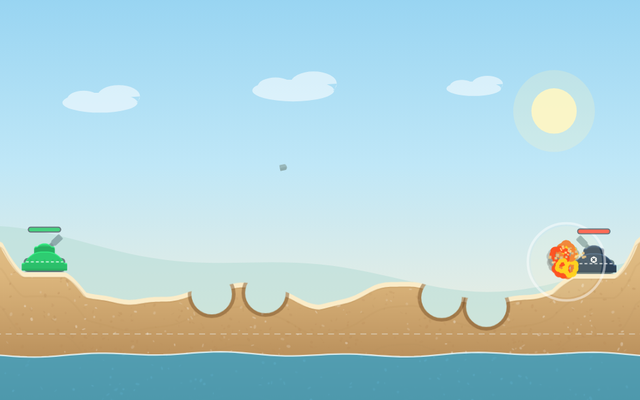
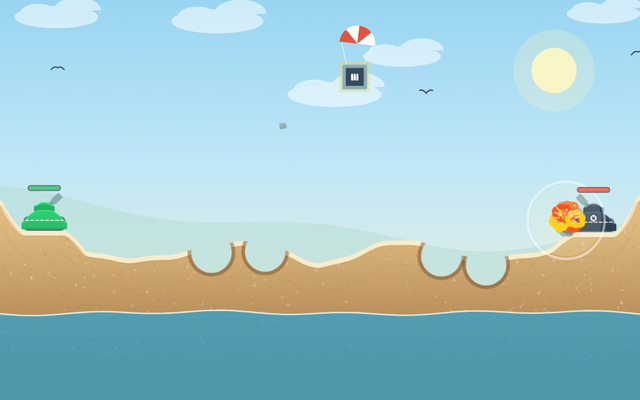
feat(crumble): share tags and a preview picture from a redrawn tile
Crumble gets its og:/twitter: tags and a 1200×630 preview drawn from a
redrawn tile (scripts/crumble/make-tile.mjs: no dashed tide line, a
supply crate), reduced to a palette to stay under 300 KB (F-15).

diff --git a/crumble/index.html b/crumble/index.html
@@ -5,6 +5,21 @@
     <meta name="viewport" content="width=device-width, initial-scale=1, viewport-fit=cover" />
     <title>Crumble</title>
     <meta name="description" content="Crumble: the tide is coming in. Blast the sand out from under the other tank before the sea reaches yours." />
+    <meta property="og:type" content="website" />
+    <meta property="og:site_name" content="Game explorations" />
+    <meta property="og:title" content="Crumble" />
+    <meta property="og:description" content="Crumble: the tide is coming in. Blast the sand out from under the other tank before the sea reaches yours." />
+    <meta property="og:url" content="https://games.meirmsn.dev/crumble/" />
+    <meta property="og:image" content="https://games.meirmsn.dev/assets/previews/crumble.png" />
+    <meta property="og:image:type" content="image/png" />
+    <meta property="og:image:width" content="1200" />
+    <meta property="og:image:height" content="630" />
+    <meta property="og:image:alt" content="A green tank and a navy tank on a cratered beach, with a shell in the air, a supply crate on its parachute and a blast by the navy tank." />
+    <meta name="twitter:card" content="summary_large_image" />
+    <meta name="twitter:title" content="Crumble" />
+    <meta name="twitter:description" content="Crumble: the tide is coming in. Blast the sand out from under the other tank before the sea reaches yours." />
+    <meta name="twitter:image" content="https://games.meirmsn.dev/assets/previews/crumble.png" />
+    <meta name="twitter:image:alt" content="A green tank and a navy tank on a cratered beach, with a shell in the air, a supply crate on its parachute and a blast by the navy tank." />
     <meta name="theme-color" content="#8fd3f4" />
     <link rel="manifest" href="../manifest.webmanifest" />
     <link rel="icon" href="../assets/icons/favicon.png" type="image/png" />

diff --git a/FINDINGS.md b/FINDINGS.md
@@ -17,3 +17,4 @@ comes back. A finding is not a task.
 | F-12 | low | Pixel Leap's AC-31 (`specs/pixel-leap.md`) says which new world has the owner's music bed "so far" (only the Farm's); it goes stale as the other beds arrive, and should then name each world's music by rule instead. | 2026-11-10 · meirmsn/games#21 review |
 | F-13 | low | Landing-page tests pin the tile count and their titles say it ("eight", now nine), so every new game's tile edits other games' tests; Crumble raised them all to 9. Counting from `index.html`'s list would end the churn. | 2026-11-09 · meirmsn/games#16 review |
 | F-14 | low | The `crumble AC-21` test checks each level is a new terrain by comparing the levels' terrain settings, not the ground they generate, so two settings that made the same ground would pass. | 2026-11-10 · meirmsn/games#16 review |
+| F-15 | low | `scripts/make-previews.mjs` writes Crumble's share picture at about 340 KB, over the 300 KB the fast tier allows (its sand and sky don't compress as a full-colour PNG); it was reduced to a 256-colour palette afterwards (29 KB). A re-run of the script needs that step again, or the script could reduce any preview that comes out over the limit. | 2026-11-10 · meirmsn/games#16 |
